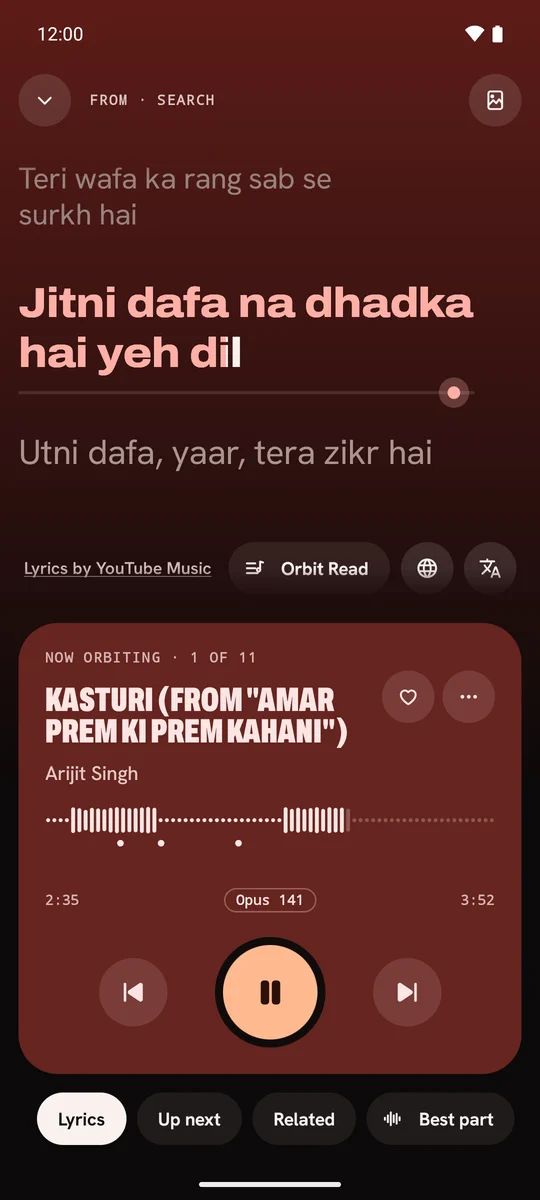
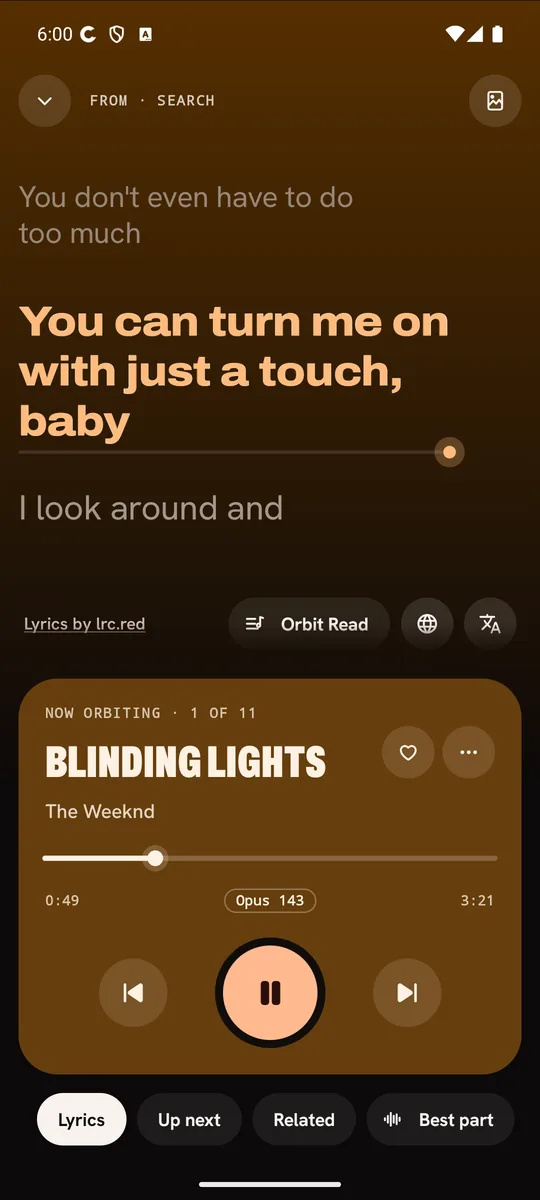
README: new screenshots of the lyrics editor, sound effects and the book reader, and a fresh music video and lyrics shot

diff --git a/README.md b/README.md
@@ -43,6 +43,16 @@ Visit the [Cosmotune website](https://cosmotune.shutterisland.in/), [OpenCanvas 
 
 ## Screenshots
 
+### New in 1.0.34
+
+<table>
+  <tr>
+    <td align="center" width="33%"><img alt="Edit lyrics on a phone: Lines and Words, a Back 5 seconds button, pause, All timed and Undo, then each line with the time it starts, and Save and Edit the words" src="docs/images/phone-lyrics-editor-dark.webp" width="200"><br><sub>Write and time your own lyrics</sub></td>
+    <td align="center" width="33%"><img alt="Sound settings on a phone: Sound effects with 8D chosen and the line The song circles slowly around your head, chips for None, 3D room, Echo, Room, Concert hall, Chorus, Vocal remover and Night mode, and an Effect strength slider at 70%" src="docs/images/phone-sound-effects-dark.webp" width="200"><br><sub>Sound effects: 8D, 3D room, reverb, vocal remover</sub></td>
+    <td align="center" width="33%"><img alt="A public-domain novel open in Read on a phone, one phrase highlighted in yellow and a word selected, with highlight colours, underline, note, look up, copy and read aloud" src="docs/images/phone-book-reader-light.webp" width="200"><br><sub>Highlights, notes, look-ups and read aloud</sub></td>
+  </tr>
+</table>
+
 ### Phone
 
 <table>
@@ -108,6 +118,9 @@ Visit the [Cosmotune website](https://cosmotune.shutterisland.in/), [OpenCanvas 
       with what you played last, then picks, mixes and new releases. Lyrics are synced line by line, and word by word where the
       source has the timing, and they can be translated or romanised. The queue can be reordered and saved as a named session to
       open again later. Replay shows your listening by month and year and can turn it into a playlist.</p>
+      <p>When the lyrics are wrong or missing, search for the right ones by hand, or type or paste your own and tap along to time
+      them, line by line or word by word. Sound effects put 8D, a 3D room, echo, room or hall reverb, chorus, a vocal remover or
+      night mode on everything that plays, and a song can keep its own effect.</p>
       <p>Cosmotune also plays the music files on your device and keeps downloaded songs for listening offline.</p>
       <p>AutoPlay and radio are ranked on the device by a <a href="docs/LOCAL_RECOMMENDATIONS.md">3.19 MB local recommendation model</a>,
       trained with ListenBrainz, Music4All-Onion, Yambda and music metadata/acoustic context, plus a small private learner that
@@ -194,6 +207,16 @@ Visit the [Cosmotune website](https://cosmotune.shutterisland.in/), [OpenCanvas 
     </td>
   </tr>
   <tr>
+    <td>
+      <h3>Read: books, audiobooks and manga</h3>
+      <p>Import EPUB, PDF, Kindle, FB2, Word, text or comic files, or get public-domain books from Standard Ebooks, Project Gutenberg
+      and the Internet Archive. The reader keeps highlights in four colours, underlines and notes, looks up a word, and reads the
+      book aloud. Audiobooks play from LibriVox or your own Audiobookshelf server, and Manga has a feed, downloads and a reader that
+      crops and splits pages.</p>
+    </td>
+    <td align="center"><img alt="A public-domain novel open in Read on a phone, one phrase highlighted in yellow and a word selected, with highlight colours, underline, note, look up, copy and read aloud" src="docs/images/phone-book-reader-light.webp" width="230"></td>
+  </tr>
+  <tr>
     <td colspan="2">
       <h3>Library and import</h3>
       <p>Your history, subscriptions, playlists and downloads are in the Library. Coming from another app? Video mode imports
@@ -237,8 +260,8 @@ Cosmotune works with no account. If you want your playlists to follow you from p
 
 ## Download
 
-Version 1.0.23. The links below always fetch the newest release.
-[1.0.23 release notes](docs/releases/1.0.23.md) · [All releases](https://github.com/Vijay-Janarthanan/cosmotune/releases) · [Report a bug](https://github.com/Vijay-Janarthanan/cosmotune/issues)
+Version 1.0.35. The links below always fetch the newest release.
+[1.0.35 release notes](docs/releases/1.0.35.md) · [All releases](https://github.com/Vijay-Janarthanan/cosmotune/releases) · [Report a bug](https://github.com/Vijay-Janarthanan/cosmotune/issues)
 
 ### Android
 
